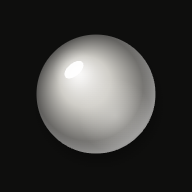
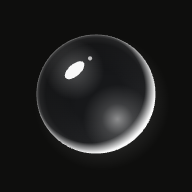
Clear glass marbles; fill the full screen in home-screen mode

Changed region(s): [[0.1875, 0.1875, 0.8125, 0.8125]]

diff --git a/src/marble.ts b/src/marble.ts
@@ -1,5 +1,4 @@
 // Every marble is the same white glass; size alone carries the meaning.
-export const PALETTE = ['#E6E4DE'];
 export const NEUTRAL = 0;
 
 /** Sprites are drawn with this much room around the marble for its contact shadow. */
@@ -11,80 +10,96 @@ export const onSchemeChange = (_fn: () => void) => {};
 
 export const colorIndex = (_name: string) => 0;
 
-type RGB = [number, number, number];
-const rgb = (hex: string): RGB => [1, 3, 5].map((i) => parseInt(hex.slice(i, i + 2), 16)) as RGB;
-const mix = (c: RGB, to: number, t: number): RGB => c.map((v) => v + (to - v) * t) as RGB;
-const css = (c: RGB, a = 1) => `rgba(${c[0] | 0},${c[1] | 0},${c[2] | 0},${a})`;
+export const cssColor = (_ci: number) => '#fff';
 
-export function cssColor(ci: number) {
-  const c = rgb(PALETTE[ci]);
-  return css(c);
-}
-
-/** Paints one glass marble of radius r centred on (cx, cy). */
+/** Paints one clear glass marble of radius r centred on (cx, cy). */
 export function paintMarble(
   ctx: CanvasRenderingContext2D,
   cx: number,
   cy: number,
   r: number,
-  ci: number,
+  _ci = 0,
   shadow = true,
 ) {
-  const dark = isDark();
-  const base = rgb(PALETTE[ci]);
+  const w = (a: number) => `rgba(255,255,255,${a})`;
   let g: CanvasGradient;
 
   if (shadow) {
-    // faint contact shadow, pooled under the bottom-right
-    g = ctx.createRadialGradient(cx + r * 0.05, cy + r * 0.16, r * 0.6, cx + r * 0.05, cy + r * 0.16, r * 1.12);
-    g.addColorStop(0, `rgba(0,0,0,${dark ? 0.5 : 0.26})`);
-    g.addColorStop(1, 'rgba(0,0,0,0)');
+    // light the glass throws onto the surface beneath it, bottom-right
+    g = ctx.createRadialGradient(cx + r * 0.1, cy + r * 0.14, r * 0.7, cx + r * 0.1, cy + r * 0.14, r * 1.14);
+    g.addColorStop(0, w(0.1));
+    g.addColorStop(1, w(0));
     ctx.fillStyle = g;
     ctx.fillRect(cx - r * PAD, cy - r * PAD, r * PAD * 2, r * PAD * 2);
   }
 
-  // body: lit from the top-left, falling off to a darker far edge
-  g = ctx.createRadialGradient(cx - r * 0.3, cy - r * 0.34, r * 0.04, cx, cy, r);
-  g.addColorStop(0, css(mix(base, 255, 0.7)));
-  g.addColorStop(0.4, css(mix(base, 0, 0.1)));
-  g.addColorStop(1, css(mix(base, 0, 0.62)));
-  ctx.fillStyle = g;
   ctx.beginPath();
   ctx.arc(cx, cy, r, 0, Math.PI * 2);
-  ctx.fill();
-
   ctx.save();
   ctx.clip();
 
-  // light gathered inside the glass, opposite the source
-  g = ctx.createRadialGradient(cx + r * 0.32, cy + r * 0.36, 0, cx + r * 0.32, cy + r * 0.36, r * 0.62);
-  g.addColorStop(0, css(mix(base, 255, 0.34), 0.42));
-  g.addColorStop(1, css(mix(base, 255, 0.34), 0));
+  // the glass itself: nearly clear, a shade off the background
+  ctx.fillStyle = '#17181a';
+  ctx.fillRect(cx - r, cy - r, r * 2, r * 2);
+
+  // fresnel: transparent face-on, brightening sharply toward the silhouette
+  g = ctx.createRadialGradient(cx, cy, r * 0.45, cx, cy, r);
+  g.addColorStop(0, w(0));
+  g.addColorStop(0.72, w(0.05));
+  g.addColorStop(0.9, w(0.16));
+  g.addColorStop(0.975, w(0.42));
+  g.addColorStop(1, w(0.7));
   ctx.fillStyle = g;
   ctx.fillRect(cx - r, cy - r, r * 2, r * 2);
 
-  // soft rim light along the bottom-right edge
-  g = ctx.createRadialGradient(cx - r * 0.11, cy - r * 0.11, r * 0.9, cx - r * 0.11, cy - r * 0.11, r * 1.11);
-  g.addColorStop(0, 'rgba(255,255,255,0)');
-  g.addColorStop(1, `rgba(255,255,255,${dark ? 0.36 : 0.42})`);
+  // inner shade under the top-left edge gives the ball its depth
+  g = ctx.createRadialGradient(cx + r * 0.22, cy + r * 0.26, r * 0.55, cx + r * 0.22, cy + r * 0.26, r * 1.3);
+  g.addColorStop(0, 'rgba(0,0,0,0)');
+  g.addColorStop(1, 'rgba(0,0,0,0.5)');
   ctx.fillStyle = g;
   ctx.fillRect(cx - r, cy - r, r * 2, r * 2);
 
-  // bloom around the highlight
-  const hx = cx - r * 0.37;
-  const hy = cy - r * 0.41;
-  g = ctx.createRadialGradient(hx, hy, 0, hx, hy, r * 0.36);
-  g.addColorStop(0, 'rgba(255,255,255,0.28)');
-  g.addColorStop(1, 'rgba(255,255,255,0)');
+  // light focused through the sphere pools opposite the source
+  g = ctx.createRadialGradient(cx + r * 0.36, cy + r * 0.42, 0, cx + r * 0.36, cy + r * 0.42, r * 0.58);
+  g.addColorStop(0, w(0.5));
+  g.addColorStop(0.45, w(0.16));
+  g.addColorStop(1, w(0));
+  ctx.fillStyle = g;
+  ctx.fillRect(cx - r, cy - r, r * 2, r * 2);
+
+  // bright rim along the bottom-right
+  g = ctx.createRadialGradient(cx - r * 0.1, cy - r * 0.1, r * 0.92, cx - r * 0.1, cy - r * 0.1, r * 1.1);
+  g.addColorStop(0, w(0));
+  g.addColorStop(1, w(0.95));
+  ctx.fillStyle = g;
+  ctx.fillRect(cx - r, cy - r, r * 2, r * 2);
+
+  // broad soft reflection across the upper-left
+  const hx = cx - r * 0.36;
+  const hy = cy - r * 0.4;
+  g = ctx.createRadialGradient(hx, hy, 0, hx, hy, r * 0.5);
+  g.addColorStop(0, w(0.26));
+  g.addColorStop(1, w(0));
   ctx.fillStyle = g;
   ctx.fillRect(cx - r, cy - r, r * 2, r * 2);
   ctx.restore();
 
-  // crisp specular
-  ctx.fillStyle = 'rgba(255,255,255,0.92)';
+  // crisp specular, with a pinpoint beside it
+  ctx.fillStyle = w(0.96);
   ctx.beginPath();
-  ctx.ellipse(hx, hy, r * 0.19, r * 0.105, -0.72, 0, Math.PI * 2);
+  ctx.ellipse(hx, hy, r * 0.2, r * 0.1, -0.72, 0, Math.PI * 2);
   ctx.fill();
+  ctx.fillStyle = w(0.7);
+  ctx.beginPath();
+  ctx.arc(cx - r * 0.1, cy - r * 0.6, r * 0.035, 0, Math.PI * 2);
+  ctx.fill();
+
+  // hairline edge keeps small marbles defined
+  ctx.strokeStyle = w(0.22);
+  ctx.lineWidth = Math.max(r * 0.012, 0.5);
+  ctx.beginPath();
+  ctx.arc(cx, cy, r - ctx.lineWidth / 2, 0, Math.PI * 2);
+  ctx.stroke();
 }
 
 // Mip chain: a marble is drawn from the smallest sprite at least as big as it is on screen.

diff --git a/src/style.css b/src/style.css
@@ -26,9 +26,19 @@ body {
   touch-action: manipulation;
   background: #000;
 }
+/* Home-screen apps with a translucent status bar get a layout viewport that stops
+   short of the bottom of the screen; 100vh is the full screen there. */
+@media (display-mode: standalone) {
+  html,
+  body {
+    height: 100vh;
+  }
+}
 body {
   position: fixed;
-  inset: 0;
+  top: 0;
+  left: 0;
+  width: 100%;
   font: 16px/1.3 -apple-system, BlinkMacSystemFont, 'SF Pro Text', system-ui, sans-serif;
   color: var(--ink);
   -webkit-font-smoothing: antialiased;
@@ -67,7 +77,7 @@ input {
 /* ── stage: everything that recedes behind a sheet ── */
 #stage {
   --p: 0;
-  position: fixed;
+  position: absolute;
   inset: 0;
   overflow: hidden;
   background: var(--bg);
@@ -159,7 +169,7 @@ input {
 
 /* ── sheets ── */
 .sheet-wrap {
-  position: fixed;
+  position: absolute;
   inset: 0;
   z-index: 10;
   pointer-events: none;
@@ -617,7 +627,7 @@ input {
 
 /* ── toast ── */
 .toast {
-  position: fixed;
+  position: absolute;
   left: 50%;
   bottom: calc(var(--sab) + 96px);
   z-index: 15;

diff --git a/src/world.ts b/src/world.ts
@@ -635,8 +635,9 @@ function render() {
 }
 
 function resize() {
-  W = innerWidth;
-  H = innerHeight;
+  // measured from the element: iOS under-reports innerHeight in home-screen apps
+  W = canvas.clientWidth;
+  H = canvas.clientHeight;
   dpr = Math.min(devicePixelRatio || 1, 3);
   canvas.width = Math.round(W * dpr);
   canvas.height = Math.round(H * dpr);
@@ -661,7 +662,7 @@ export const world = {
     el.addEventListener('pointermove', onMove);
     el.addEventListener('pointerup', onUp);
     el.addEventListener('pointercancel', onUp);
-    addEventListener('resize', resize);
+    new ResizeObserver(resize).observe(el);
     resize();
   },
 

diff --git a/src/sheet.ts b/src/sheet.ts
@@ -119,7 +119,9 @@ export class Sheet {
 const vv = window.visualViewport;
 if (vv) {
   const sync = () => {
-    const kb = Math.max(0, innerHeight - vv.height - vv.offsetTop);
+    // anything under 120px isn't a keyboard, just iOS disagreeing with itself about the viewport
+    const gap = document.body.clientHeight - vv.height - vv.offsetTop;
+    const kb = gap > 120 ? gap : 0;
     document.documentElement.style.setProperty('--kb', `${Math.round(kb)}px`);
   };
   vv.addEventListener('resize', sync);
